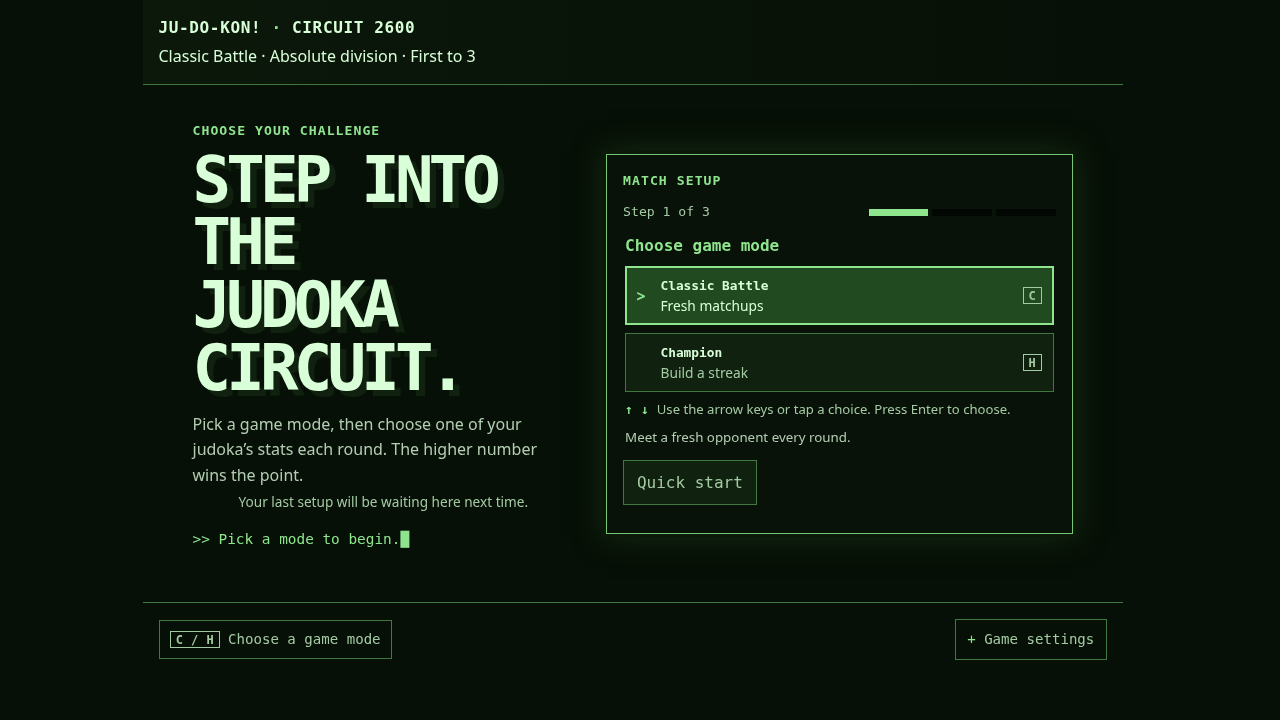
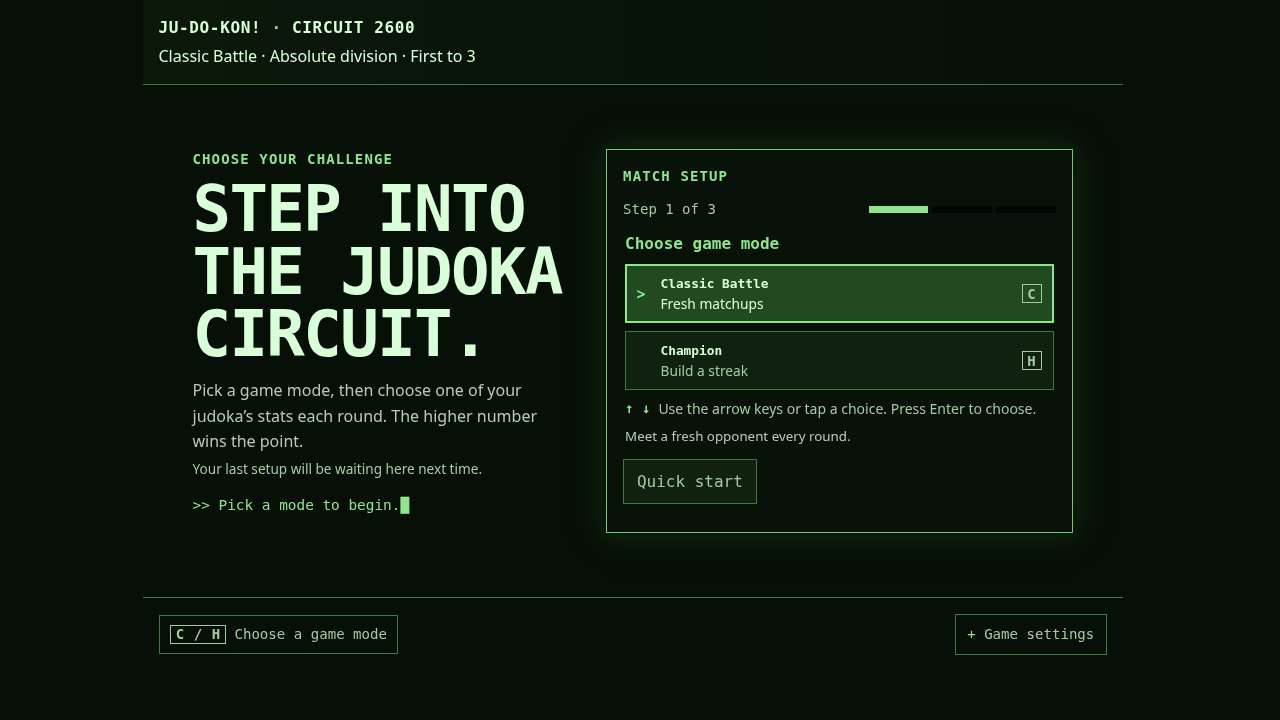
Polish hero typography and match controls

diff --git a/src/style.css b/src/style.css
@@ -209,9 +209,9 @@ summary:focus-visible,
   color: var(--color-text);
   font-size: clamp(2.6rem, 5vw, 4.25rem);
   line-height: .98;
-  letter-spacing: -.075em;
+  letter-spacing: -.025em;
   text-transform: uppercase;
-  text-shadow: .1em .1em 0 var(--color-surface-raised);
+  text-shadow: none;
 }
 
 .intro-lede {
@@ -235,11 +235,10 @@ summary:focus-visible,
 }
 
 .intro-footnote {
-  grid-column: 1 / -1;
   margin-top: var(--space-1);
   color: var(--color-muted);
   font-size: .85rem;
-  text-align: center;
+  text-align: left;
 }
 
 .intro[data-setup-step="division"] .intro-lede,
@@ -258,13 +257,9 @@ summary:focus-visible,
   text-shadow: none;
 }
 
-.intro[data-setup-step="division"] .intro-copy h1 br,
-.intro[data-setup-step="weight"] .intro-copy h1 br,
-.intro[data-setup-step="length"] .intro-copy h1 br { display: none; }
-
 .eyebrow {
   color: var(--color-accent);
-  font-size: .82rem;
+  font-size: .875rem;
   font-weight: 700;
   letter-spacing: .08em;
   text-transform: uppercase;
@@ -286,7 +281,7 @@ summary:focus-visible,
   padding: .25rem .5rem;
   border: 1px solid var(--color-border);
   color: var(--color-muted);
-  font-size: .82rem;
+  font-size: .875rem;
   background: var(--color-surface);
 }
 
@@ -295,7 +290,7 @@ summary:focus-visible,
 .setup-change {
   min-height: 2rem;
   padding: .3rem .5rem;
-  font-size: .82rem;
+  font-size: .875rem;
 }
 
 .setup-progress {
@@ -306,7 +301,7 @@ summary:focus-visible,
   margin-top: var(--space-3);
   color: var(--color-muted);
   font-family: var(--font-mono);
-  font-size: .82rem;
+  font-size: .875rem;
 }
 
 .setup-progress-track {
@@ -402,7 +397,7 @@ summary:focus-visible,
   gap: var(--space-2);
   margin-top: var(--space-2);
   color: var(--color-muted);
-  font-size: .82rem;
+  font-size: .875rem;
 }
 
 .menu-help__touch { display: none; }
@@ -439,18 +434,18 @@ summary:focus-visible,
   justify-content: center;
   border: 1px solid currentColor;
   font-family: var(--font-mono);
-  font-size: .75rem;
+  font-size: .875rem;
   font-weight: 700;
   letter-spacing: .04em;
   line-height: 1;
   text-transform: uppercase;
 }
 
-.shortcut-hint { color: var(--color-muted); }
+.shortcut-hint { color: var(--color-muted); font-size: .875rem; }
 .shortcut-hint kbd { padding: .1rem .3rem; border: 0; background: transparent; color: inherit; white-space: nowrap; }
 .option-card { min-width: 0; text-align: left; }
 .option-card strong { color: var(--color-text); font-size: 1.2rem; }
-.option-card em { color: var(--color-accent); font-size: .72rem; font-style: normal; font-weight: 700; letter-spacing: .04em; text-transform: uppercase; }
+.option-card em { color: var(--color-accent); font-size: .875rem; font-style: normal; font-weight: 700; letter-spacing: .04em; text-transform: uppercase; }
 
 .surface { min-width: 0; }
 .fighter-card { min-width: 0; margin: 0; padding: 0; }
@@ -467,18 +462,18 @@ summary:focus-visible,
 .fighter-summary::-webkit-details-marker { display: none; }
 .fighter-summary::after { grid-column: 3; grid-row: 1 / span 3; content: "+"; color: var(--color-accent); font-family: var(--font-mono); text-align: center; }
 .fighter-card[open] .fighter-summary::after { content: "−"; }
-.fighter-summary .eyebrow { grid-column: 1; grid-row: 1; font-size: .72rem; }
+.fighter-summary .eyebrow { grid-column: 1; grid-row: 1; font-size: .875rem; }
 .fighter-summary > strong { grid-column: 1; grid-row: 2; min-width: 0; overflow: hidden; text-overflow: ellipsis; white-space: nowrap; }
 .fighter-summary .rarity { grid-column: 2; grid-row: 1 / span 2; padding: .2rem .45rem; }
-.fighter-result { display: flex; grid-column: 1; grid-row: 3; align-items: center; gap: var(--space-2); color: var(--color-draw); font-family: var(--font-mono); font-size: .82rem; }
+.fighter-result { display: flex; grid-column: 1; grid-row: 3; align-items: center; gap: var(--space-2); color: var(--color-draw); font-family: var(--font-mono); font-size: .875rem; }
 .fighter-result strong { color: var(--color-text); font-size: 1.05rem; }
 .fighter-detail-body { padding: 0 .8rem .8rem; color: var(--color-subtle); }
-.fighter-detail-body > .eyebrow { margin-top: var(--space-3); color: var(--color-muted); font-size: .72rem; }
+.fighter-detail-body > .eyebrow { margin-top: var(--space-3); color: var(--color-muted); font-size: .875rem; }
 .fighter-facts { grid-template-columns: repeat(2, minmax(0, 1fr)); gap: var(--space-2); margin-top: var(--space-2); }
-.fighter-facts dt { font-size: .74rem; }
+.fighter-facts dt { font-size: .875rem; }
 .fighter-facts dd { margin-top: 0; overflow-wrap: anywhere; font-size: .88rem; }
 .fighter-stat-list { display: grid; gap: 0; margin: var(--space-2) 0 0; padding: 0; list-style: none; }
-.fighter-stat-list li { display: flex; align-items: center; justify-content: space-between; gap: var(--space-2); min-width: 0; padding: .22rem 0; border-bottom: 1px solid rgb(65 120 65 / .45); font-size: .84rem; }
+.fighter-stat-list li { display: flex; align-items: center; justify-content: space-between; gap: var(--space-2); min-width: 0; padding: .22rem 0; border-bottom: 1px solid rgb(65 120 65 / .45); font-size: .875rem; }
 .fighter-stat-list li.is-selected { color: var(--color-draw); font-weight: 700; }
 .fighter-stat-list li.outcome-player { color: var(--color-win); }
 .fighter-stat-list li.outcome-opponent { color: var(--color-loss-soft); }
@@ -501,10 +496,10 @@ summary:focus-visible,
   padding: .65rem .85rem;
 }
 
-.scoreboard > p { align-self: center; color: var(--color-muted); font-size: .8rem; line-height: 1.2; text-align: center; }
+.scoreboard > p { align-self: center; color: var(--color-muted); font-size: .875rem; line-height: 1.2; text-align: center; }
 .score-side { display: flex; align-items: center; gap: var(--space-2); min-height: 2rem; }
 .score-side.opponent { justify-content: flex-end; }
-.score-side span { color: var(--color-muted); font-family: var(--font-mono); font-size: .75rem; text-transform: uppercase; }
+.score-side span { color: var(--color-muted); font-family: var(--font-mono); font-size: .875rem; text-transform: uppercase; }
 .score-side strong { font-family: var(--font-mono); font-size: 1.25rem; line-height: 1; }
 .score-pips { display: flex; align-items: center; gap: var(--space-1); height: 2rem; }
 .score-side.opponent .score-pips { justify-content: flex-end; }
@@ -543,7 +538,7 @@ summary:focus-visible,
 .choice-label { min-width: 0; overflow-wrap: anywhere; font-size: clamp(.72rem, 1vw, .82rem); line-height: 1.2; }
 .choice-value { flex: 0 0 auto; margin: 0; }
 .choice-meta { display: flex; align-items: center; justify-content: space-between; gap: var(--space-1); min-height: 1rem; }
-.choice-marker { min-width: 0; overflow-wrap: anywhere; font-size: .66rem !important; line-height: 1.1; }
+.choice-marker { min-width: 0; overflow-wrap: anywhere; font-size: .875rem !important; line-height: 1.1; }
 .choice-meta .shortcut-hint { flex: 0 0 auto; }
 .stats .option-card.is-strongest:not(.is-selected) { background: var(--color-control-active); }
 
@@ -558,9 +553,9 @@ summary:focus-visible,
   background: var(--color-surface);
 }
 .scout-report > p { display: flex; flex-wrap: wrap; align-items: baseline; gap: 0 var(--space-2); }
-.scout-report .eyebrow { font-size: .74rem; }
+.scout-report .eyebrow { font-size: .875rem; }
 .scout-report strong { color: var(--color-draw); }
-.scout-tip summary { color: var(--color-muted); cursor: pointer; font-size: .82rem; }
+.scout-tip summary { color: var(--color-muted); cursor: pointer; font-size: .875rem; }
 .scout-tip p { max-width: 34rem; margin-top: var(--space-2); color: var(--color-subtle); font-size: .85rem; }
 .stat-glossary { margin-top: var(--space-2); }
 .stat-glossary dl { display: grid; grid-template-columns: auto 1fr; gap: var(--space-1) var(--space-3); max-width: 28rem; margin-top: var(--space-2); font-size: .85rem; }
@@ -611,7 +606,7 @@ summary:focus-visible,
   border-inline-start: 3px solid var(--color-accent);
   background: var(--color-surface-raised);
 }
-.match-takeaway .eyebrow { font-size: .75rem; }
+.match-takeaway .eyebrow { font-size: .875rem; }
 .match-takeaway strong { color: var(--color-text); }
 
 .definition-list {
@@ -620,7 +615,7 @@ summary:focus-visible,
   margin-top: var(--space-3);
 }
 
-.definition-list dt { color: var(--color-muted); font-size: .82rem; }
+.definition-list dt { color: var(--color-muted); font-size: .875rem; }
 .definition-list dd { margin: var(--space-1) 0 0; font-weight: 700; }
 .match-summary-list { grid-template-columns: repeat(auto-fit, minmax(7.5rem, 1fr)); }
 .champion-progress-list { grid-template-columns: repeat(3, minmax(0, 1fr)); }
@@ -668,11 +663,11 @@ summary:focus-visible,
   padding: .45rem .55rem;
   border: var(--border);
   color: var(--color-subtle);
-  font-size: .8rem;
+  font-size: .875rem;
 }
 
 .match-history li strong { color: var(--color-text); font-family: var(--font-mono); font-size: .9rem; }
-.match-history .history-values { font-size: .76rem; }
+.match-history .history-values { font-size: .875rem; }
 .match-history li.player { border-color: var(--color-win); }
 .match-history li.player span:last-child { color: var(--color-win); }
 .match-history li.opponent { border-color: var(--color-loss); }
@@ -707,6 +702,7 @@ summary:focus-visible,
   min-width: 0;
   overflow: visible;
 }
+.footer-match-settings { margin-left: auto; }
 
 .footer-hint {
   display: inline-flex;
@@ -871,11 +867,11 @@ footer { border-top: var(--border); color: var(--color-muted); font-size: .88rem
   .choice-label-full { display: none; }
   .choice-label-compact { display: inline; }
   .choice-label { font-size: .92rem; }
-  .choice-card small { font-size: .78rem; }
+  .choice-card small { font-size: .875rem; }
   .scoreboard { grid-template-columns: 1fr 1fr; gap: var(--space-2); }
   .scoreboard > p { grid-column: 1 / -1; grid-row: 1; }
   .score-side { gap: var(--space-1); }
-  .score-side span { font-size: .7rem; }
+  .score-side span { font-size: .875rem; }
   .score-side strong { font-size: 1.1rem; }
   .stats { grid-template-columns: 1fr; }
   .fighter-pair { grid-template-columns: minmax(0, 1fr); gap: var(--space-2); }
@@ -883,7 +879,7 @@ footer { border-top: var(--border); color: var(--color-muted); font-size: .88rem
   .fighter-summary .rarity { padding: .15rem .3rem; font-size: .65rem; }
   .fighter-detail-body { padding: 0 .55rem .6rem; }
   .fighter-facts { grid-template-columns: 1fr; gap: var(--space-1); }
-  .fighter-stat-list li { font-size: .78rem; }
+  .fighter-stat-list li { font-size: .875rem; }
   .action-group > button { width: 100%; }
   .weight-picker { align-items: stretch; flex-direction: column; }
   .match-summary-list,

diff --git a/src/ui/setup-templates.ts b/src/ui/setup-templates.ts
@@ -21,6 +21,12 @@ export function footerUtilities(state: GameState): string {
   return `<details class="footer-settings"><summary>Game settings</summary><div class="footer-utilities" role="group" aria-label="Game settings">${utilityButton("seed-button", seedLabel)}${utilityButton("sound-enabled", `Sound: ${soundEnabled ? "On" : "Off"}`, soundEnabled)}${notificationSettings}</div></details>`;
 }
 
+/** Sound stays directly reachable in the match footer without opening setup-only settings. */
+export function matchSoundToggle(): string {
+  const soundEnabled = getSoundEnabled();
+  return `<div class="footer-match-settings" role="group" aria-label="Game settings">${utilityButton("sound-enabled", `Sound: ${soundEnabled ? "On" : "Off"}`, soundEnabled)}</div>`;
+}
+
 export function seedDialog(state: GameState): string {
   const dialog = state.seedModalOpen
     ? `<div class="modal-backdrop"><section class="panel seed-dialog" role="dialog" aria-modal="true" aria-labelledby="seed-dialog-title"><p class="eyebrow">Replay setup</p><h2 id="seed-dialog-title">Set a replay seed</h2><p>Use the same seed to replay the same matchups, as long as the Budokon judoka catalogue has not changed.</p><label for="replay-seed">Replay seed<input id="replay-seed" value="${esc(state.seedDraft ?? state.replaySeed)}" placeholder="Leave blank for a fresh matchup" autocomplete="off" spellcheck="false" /></label>${actionGroup(`${quietButton("cancel-seed", "Cancel", "Esc")}${primaryButton("save-seed", "Use seed", "Enter")}`, { label: "Replay seed actions", className: "dialog-actions" })}</section></div>`
@@ -135,5 +141,5 @@ export function intro(state: GameState): string {
   const firstStepCopy = step === "mode"
     ? `<p class="intro-lede">Pick a game mode, then choose one of your judoka’s stats each round. ${pointRule}</p><p class="intro-footnote">Your last setup will be waiting here next time.</p>`
     : "";
-  return `<section class="intro" data-setup-step="${step}" aria-labelledby="intro-title"><div class="intro-copy"><p class="eyebrow">Choose your challenge</p><h1 id="intro-title">Step into the <br/>judoka circuit.</h1>${firstStepCopy}<p class="intro-status">${esc(statusMessage)}<span class="block-cursor" aria-hidden="true">█</span></p></div>${surface("section", "intro-mode-panel", "Match setup", `${helpers.eyebrow("Match setup")}${setupPanel(state, helpers)}`)}</section>`;
+  return `<section class="intro" data-setup-step="${step}" aria-labelledby="intro-title"><div class="intro-copy"><p class="eyebrow">Choose your challenge</p><h1 id="intro-title">Step into the judoka circuit.</h1>${firstStepCopy}<p class="intro-status">${esc(statusMessage)}<span class="block-cursor" aria-hidden="true">█</span></p></div>${surface("section", "intro-mode-panel", "Match setup", `${helpers.eyebrow("Match setup")}${setupPanel(state, helpers)}`)}</section>`;
 }

diff --git a/e2e/game-flow.spec.ts b/e2e/game-flow.spec.ts
@@ -130,6 +130,8 @@ test("[REQ-UI-025] Quick start opens the default match and its glossary and hist
   await page.setViewportSize({ width: 1280, height: 720 });
   await page.goto("/");
   await expect(page.getByRole("group", { name: "Choose game mode" })).toBeVisible();
+  await expect(page.locator("#intro-title")).toHaveText("Step into the judoka circuit.");
+  await expect(page.locator("#intro-title br")).toHaveCount(0);
   await expect(page.getByRole("button", { name: "Quick start" })).toBeVisible();
   await page.screenshot({ path: "docs/assets/review/quick-start-desktop.png", fullPage: true });
 
@@ -138,6 +140,13 @@ test("[REQ-UI-025] Quick start opens the default match and its glossary and hist
   await page.getByRole("button", { name: "Quick start" }).click();
   await expect(page.getByRole("heading", { name: "Choose a stat" })).toBeVisible();
   await expect(page.locator(".scoreboard")).toContainText("First to 3");
+  const sound = page.locator("#sound-enabled");
+  await expect(sound).toHaveAttribute("aria-pressed", "false");
+  await sound.focus();
+  await page.keyboard.press("Enter");
+  await expect(page.locator("#sound-enabled")).toHaveAttribute("aria-pressed", "true");
+  await page.keyboard.press("Space");
+  await expect(page.locator("#sound-enabled")).toHaveAttribute("aria-pressed", "false");
 
   const glossary = page.locator("details.stat-glossary");
   await glossary.locator("summary").click();

diff --git a/src/ui/render.test.ts b/src/ui/render.test.ts
@@ -88,6 +88,17 @@ describe("renderApp", () => {
     expect(root.querySelector("#game-title")?.textContent).toBe("Round 4 match");
   });
 
+  it("[REQ-AUDIO-016] keeps the sound toggle available during an active match", () => {
+    localStorage.setItem("judokon.soundEnabled", "false");
+    const root = document.createElement("div");
+    renderApp(root, createMockGameState({ match: createMockMatch() }));
+    const sound = root.querySelector<HTMLButtonElement>("#sound-enabled");
+
+    expect(sound?.textContent).toContain("Sound: Off");
+    expect(sound?.getAttribute("aria-pressed")).toBe("false");
+    expect(root.querySelector(".footer-settings")).toBeNull();
+  });
+
   it("keeps repeated idle selection status visible without replacing the persistent live region", () => {
     const root = document.createElement("div");
     const state = createMockGameState({ match: createMockMatch({ phase: "selecting" }) });

diff --git a/src/ui/render.ts b/src/ui/render.ts
@@ -1,7 +1,7 @@
 import { layoutSetupActions } from "./layout";
 import type { GameState } from "../state";
 import { shortcutHint } from "./controls";
-import { footerUtilities, intro, seedDialog } from "./setup-templates";
+import { footerUtilities, intro, matchSoundToggle, seedDialog } from "./setup-templates";
 import { game } from "./game-templates";
 import { createHelpers, headerContext, status } from "./helpers";
 import { escapeHtml as esc } from "./utils/escapeHtml";
@@ -41,7 +41,7 @@ function generateHint(state: GameState): string {
  * Generate optional footer settings panel
  */
 function generateSettings(state: GameState): string {
-  return !state.match ? footerUtilities(state) : "";
+  return state.match ? matchSoundToggle() : footerUtilities(state);
 }
 
 export function renderApp(root: HTMLElement, state: GameState): void {

diff --git a/src/ui/setup-templates.test.ts b/src/ui/setup-templates.test.ts
@@ -59,6 +59,15 @@ describe("setup templates", () => {
     expect(root.querySelector('[aria-live="polite"]')).toBeNull();
   });
 
+  it("[REQ-UI-027] keeps the hero headline as continuous text for natural wrapping", () => {
+    const root = document.createElement("div");
+    root.innerHTML = intro(state());
+    const heading = root.querySelector("#intro-title");
+
+    expect(heading?.textContent?.replace(/\s+/g, " ").trim()).toBe("Step into the judoka circuit.");
+    expect(heading?.querySelector("br")).toBeNull();
+  });
+
   it("[REQ-UI-014] starts with game mode as the only setup choice", () => {
     const current = state();
     const markup = intro(current);

diff --git a/README.md b/README.md
@@ -37,7 +37,7 @@ A selected stat is compared with the opponent's hidden value; the higher value e
 - During setup, choose a mode with `C` (**Classic**) / `H` (**Champion**) and a division with `A` (**Absolute**) / `W` (**Weight**). Cycle match length with the arrow keys or `1`–`3`; if you chose Weight division, confirm its class with `Enter`, then confirm match length with `Enter` or `Space` to start.
 - During a match, choose a stat with `1`–`5` (`power`, `speed`, `technique`, `kumikata`, `newaza`). Press `Enter` or `Space` to advance or replay, and quit with `Esc` or `Q`.
 - Stat choices display as **Power**, **Speed**, **Technique**, **Kumi-kata**, and **Ne-waza**.
-- Optional keyboard ticks and outcome beeps are available in **Game settings**. They are muted by default and the preference is stored in `localStorage`. When enabled, keyboard actions and match outcomes play audio feedback; muting suppresses new feedback.
+- Optional keyboard ticks and outcome beeps are muted by default. Toggle sound in **Game settings** during setup or with the **Sound** button in the match footer. The preference is stored in `localStorage`; when enabled, keyboard actions and match outcomes play audio feedback, and muting suppresses new feedback.
 
 ### Match summary and Champion mode
 
@@ -45,7 +45,7 @@ After each match, the summary recommends your best stat by most rounds won, then
 
 In **Champion** mode, you keep the same judoka while a rotating line-up of opponents changes each match. The **Current streak** counts consecutive rounds won at the end of the run: each win extends it, while either a loss or a draw resets it to zero. Earlier wins remain part of the run record but do not count toward the current streak.
 
-The match screen foregrounds the score and current decision. During stat selection, paired fighter cards show your judoka’s full details and keep the opponent’s stat values hidden. Picking a stat reveals the opponent’s values. The **What do these stats mean?** disclosure explains Kumi-kata (grip fighting) and Ne-waza (ground work). After each round, the chosen stat and both values appear on the cards before the next action. Round history shows each round’s opponent, stat, values, and outcome during the current run. Saved sessions retain the existing compact history fields. Champion run metrics and the completed-match breakdown remain available in collapsed disclosures. Replay seed and sound controls are under **Game settings** during setup.
+The match screen foregrounds the score and current decision. During stat selection, paired fighter cards show your judoka’s full details and keep the opponent’s stat values hidden. Picking a stat reveals the opponent’s values. The **What do these stats mean?** disclosure explains Kumi-kata (grip fighting) and Ne-waza (ground work). After each round, the chosen stat and both values appear on the cards before the next action. Round history shows each round’s opponent, stat, values, and outcome during the current run. Saved sessions retain the existing compact history fields. Champion run metrics and the completed-match breakdown remain available in collapsed disclosures. Replay seed and notification-duration controls are under **Game settings** during setup; sound remains available during matches.
 
 Selective snack bars rise from the bottom centre for replay-seed confirmations, restored matches, newly available Dojo notes, and quitting a match. A quit notice offers **Undo quit** for eight seconds and restores the match. The dock sits below gameplay and mobile setup controls, so it does not cover a stat choice or action. Confirmations last four seconds, restoration notices six seconds, and Dojo-note and quit notices eight seconds. Hovering, focusing a notification, or switching away from the tab pauses its timer. **Game settings → Notification duration** offers Standard, Extended (three times as long), or Until dismissed. A persistent polite live region announces status changes once; scores, round results, scouting information, and actionable errors remain visible in the app.
 

diff --git a/docs/test-contracts.md b/docs/test-contracts.md
@@ -27,7 +27,7 @@ These IDs give the UI and game tests a stable link to observable product behavio
 | REQ-UI-013 | With no saved preferences, setup opens at the mode step with Classic, Absolute, Random weight class, and first-to-3 selected. | [Gameplay flow](../README.md#gameplay) |
 | REQ-UI-014 | Setup presents one decision stage at a time, preserves earlier choices in summaries, and uses a native radio group for the active options. | [Gameplay flow](../README.md#gameplay) |
 | REQ-UI-015 | Before starting, the final setup stage shows the selected target and scoring rule alongside a Start action. | [Gameplay flow](../README.md#gameplay) |
-| REQ-AUDIO-016 | Optional audio feedback is muted by default; when enabled, keyboard actions and match outcomes play feedback, and muting suppresses new feedback. | [Gameplay flow](../README.md#gameplay) |
+| REQ-AUDIO-016 | Optional audio feedback is muted by default, can be toggled during setup and active matches, and only plays keyboard or outcome feedback while enabled. | [Gameplay flow](../README.md#gameplay) |
 | REQ-GAME-017 | Replaying a completed match starts a fresh match with the active replay seed. | [Gameplay flow](../README.md#gameplay) |
 | REQ-UI-018 | Seed confirmations, valid session restoration, Dojo-note arrival, and quit Undo use one bottom-centre snack bar; essential gameplay and error information stays persistent. | [Notification plan](snackbar-plan.md) |
 | REQ-UI-019 | Snack bar expiry preserves gameplay DOM and focus, pauses on hover/focus/hidden tabs, supports extended/manual duration, and bounds/deduplicates queued notices. | [Notification plan](snackbar-plan.md) |
@@ -37,3 +37,4 @@ These IDs give the UI and game tests a stable link to observable product behavio
 | REQ-UI-024 | A status change, including a round result, is announced exactly once through a polite live region that survives app rerenders. | [Gameplay flow](../README.md#gameplay) |
 | REQ-UI-025 | Quick start begins a match from the selected setup while the full staged setup flow remains available. | [Setup and scoring](../README.md#gameplay) |
 | REQ-UI-026 | The stat glossary explains Kumi-kata as grip fighting and Ne-waza as ground work. | [Stat comparison](../README.md#gameplay) |
+| REQ-UI-027 | The intro hero heading is continuous text and wraps naturally without forcing a word onto its own line. | [Setup and scoring](../README.md#gameplay) |
